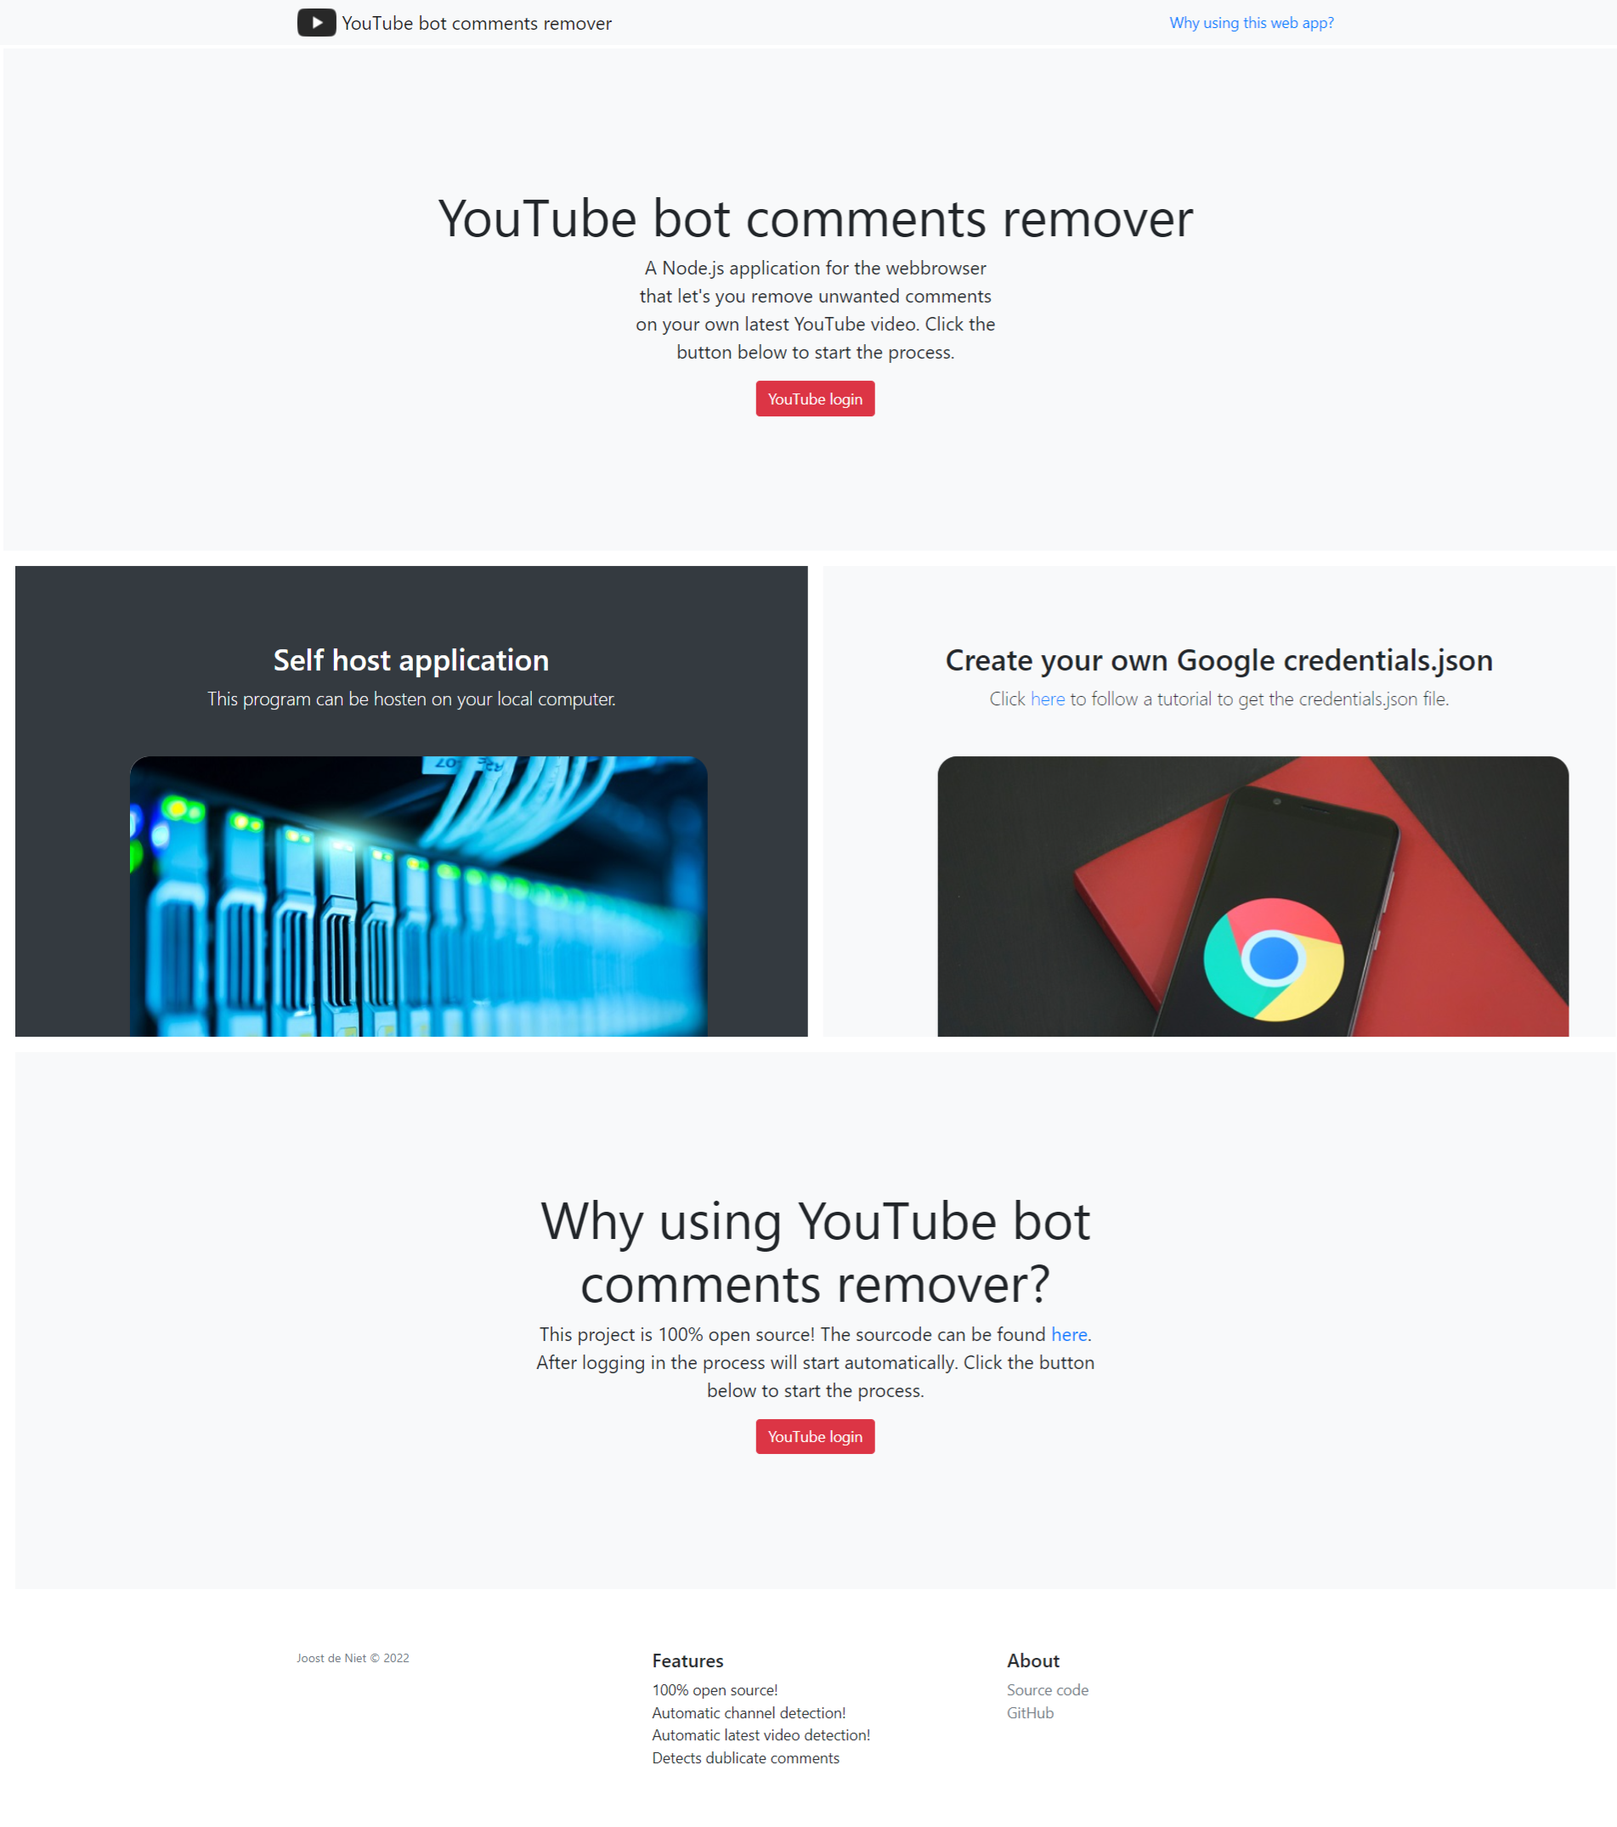
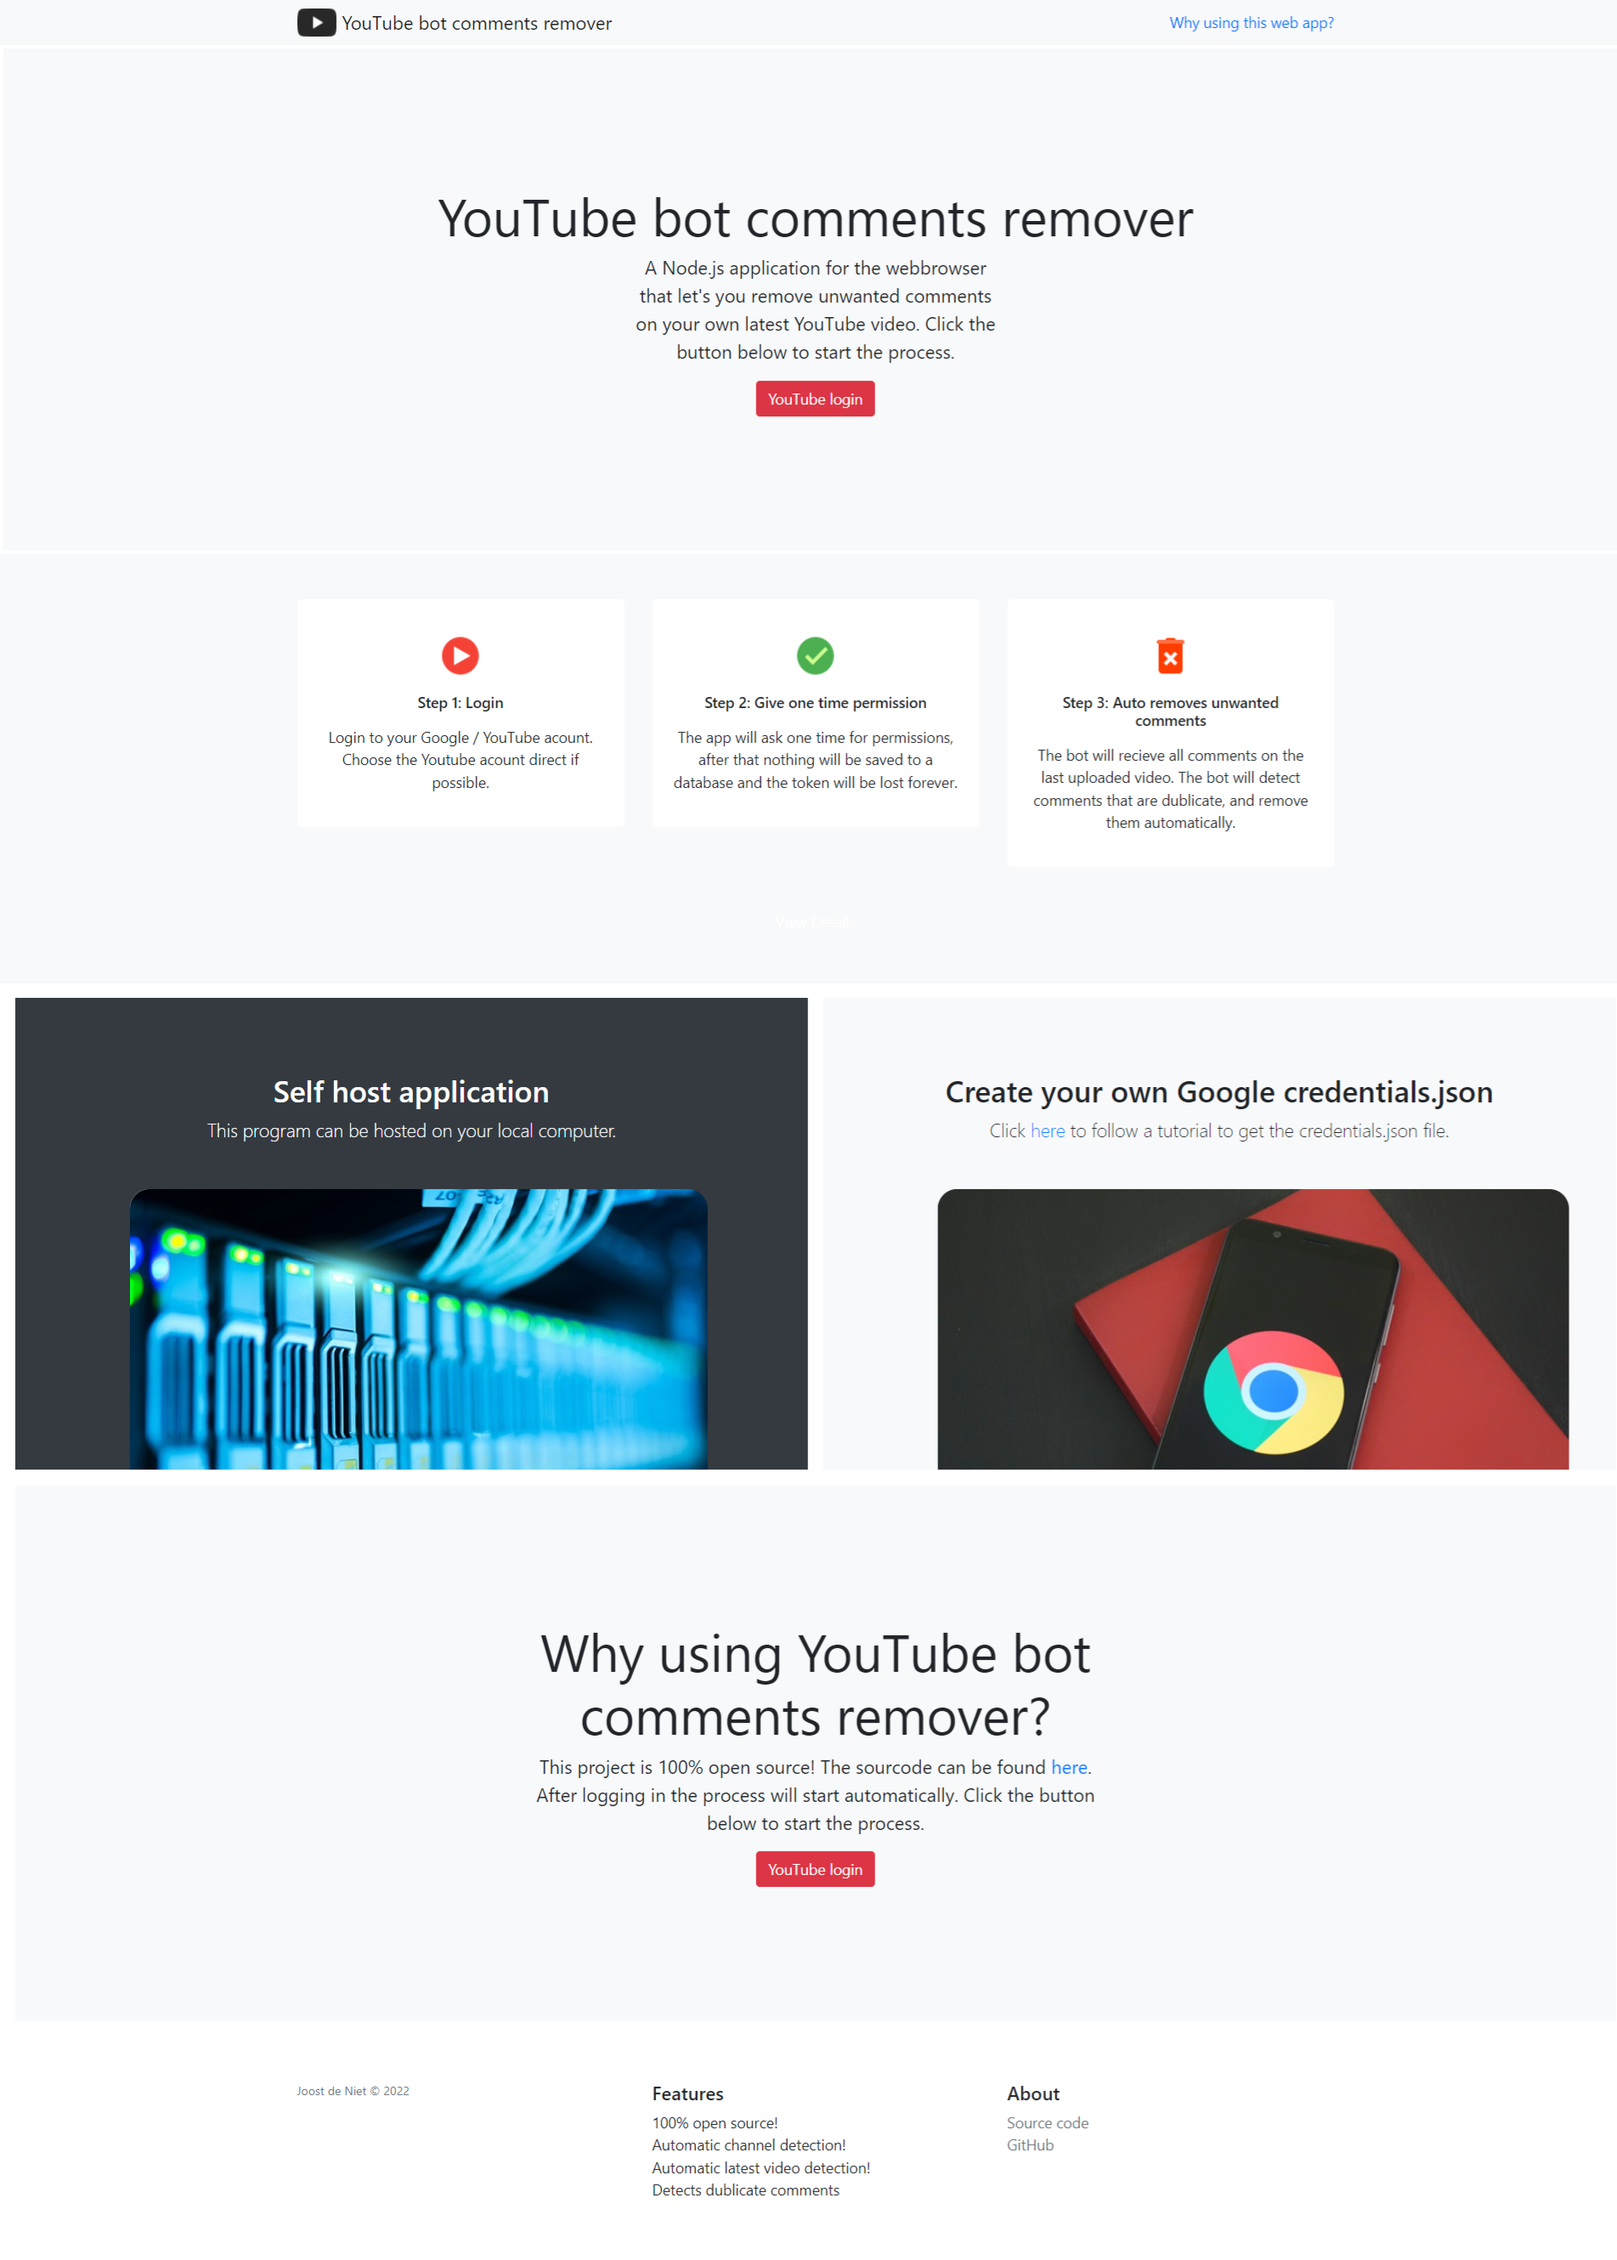
Added new index page section, added auto detect channnel ID and uploads

diff --git a/app.js b/app.js
@@ -47,12 +47,18 @@ app.get("/bot", async (req, res) => {
   try {
     const youtube = google.youtube({ version: "v3", auth: oAuth2Client });
 
+    // Get user's channel ID.
+    const channel = await youtube.channels.list({
+      part: "id",
+      mine: true,
+    });
+    const channelId = channel.data.items[0].id;
+
     // Get uploads playlist by channel ID.
     const response = await youtube.channels.list({
       part: "snippet,contentDetails",
-      id: "UC2VTWrVnZIzWXH2wkj8sAQA",
+      id: channelId,
     });
-
     const uploadsId =
       response.data.items[0].contentDetails.relatedPlaylists.uploads;
 

diff --git a/README.md b/README.md
@@ -25,4 +25,4 @@ Youtube bots comments remover is a webapplication that removes unwanted comments
 ## Screenshots
 
 ![Screenshot of the website](https://github.com/nietjoost/Node.js-YouTube-bot-comments-remover/blob/main/screenshots/Screenshot%201.png)
-![Screenshot of the website](https://github.com/nietjoost/Node.js-YouTube-bot-comments-remover/blob/main/screenshots/Screenshot%203.png)
+![Screenshot of the website](https://github.com/nietjoost/Node.js-YouTube-bot-comments-remover/blob/main/screenshots/Screenshot%202.png)
